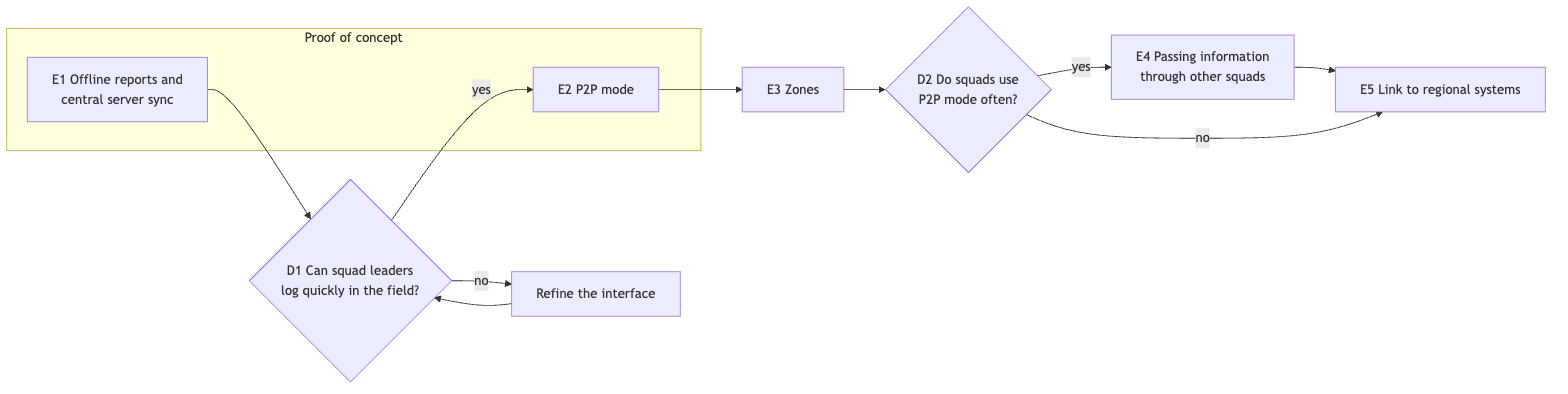
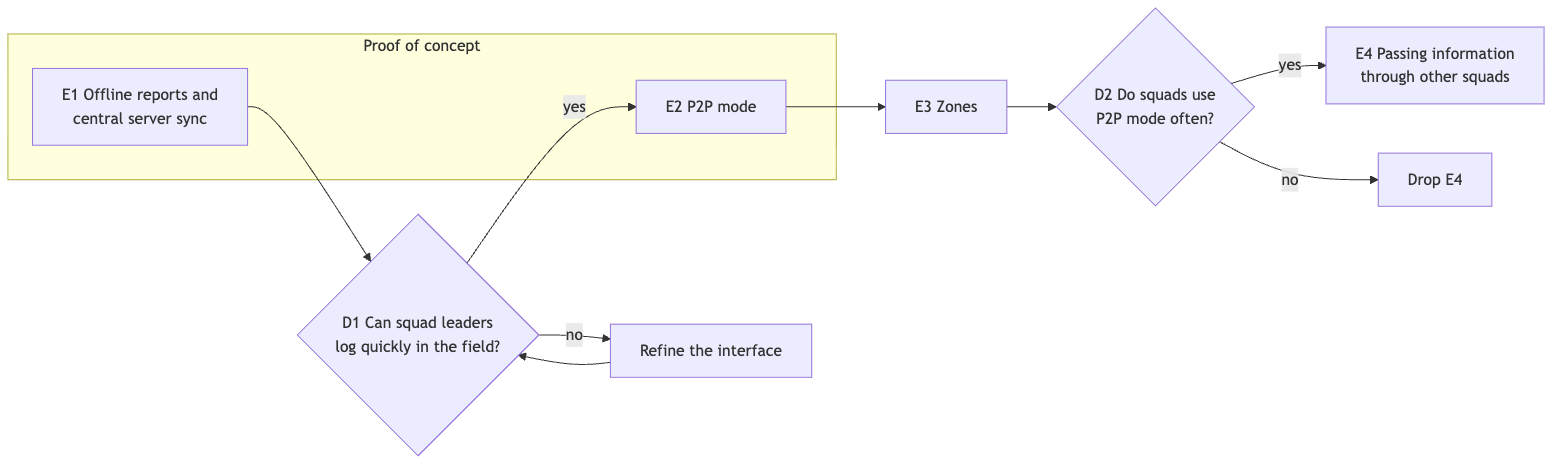
report(pa2): drop quality scenario, S5, S6 and E5 to fit word budget

diff --git a/report/pa2.md b/report/pa2.md
@@ -59,7 +59,7 @@ The system is for small and large incidents, and it does not replace voice radio
 
 ## 2.2 Key Scenarios
 
-Table 2.1 lists the scenarios at user-goal level [Cockburn], with the stakeholders from Section 1.3 that each one serves. We detail two of them below, and then one quality scenario.
+Table 2.1 lists the scenarios at user-goal level [Cockburn], with the stakeholders from Section 1.3 that each one serves. We detail two of them below.
 
 <!-- Actor and stakeholder names must match Section 1.3. -->
 
@@ -69,8 +69,6 @@ Table 2.1 lists the scenarios at user-goal level [Cockburn], with the stakeholde
 | S2 | Squad leader | Receive updates and assignments once connected | Squads, command staff |
 | S3 | Two squad leaders | Sync in P2P mode when their squads meet | Squads |
 | S4 | Two squad leaders | Settle conflicting reports about the same thing | Squads |
-| S5 | Division supervisor | Follow reports from a wider area than one squad | Division supervisors |
-| S6 | Command staff | See the combined picture and assign squads | Command staff |
 
 *Table 2.1: Scenario overview.*
 
@@ -85,16 +83,6 @@ Squads 3 and 7 meet during the shift. Neither squad has had a connection since t
 <!-- FIGURE 2.1: timeline of this scenario (two lanes: Squad 3, Squad 7).
 Export the Mermaid source to PNG so it does not count toward the word limit. -->
 
-### 2.2.3 Quality scenario: extended disconnection
-
-<!-- Numbers are proposals for the team to confirm; CA3 experiments measure them. -->
-
-| Field | Content |
-|---|---|
-| Situation | A squad has been out of contact for a full shift, then meets another squad. |
-| Response | Both tablets exchange all their entries. No entry is lost, and both leaders see all conflicts. |
-| Target | The tablets exchange 500 entries each in less than 60 seconds. |
-
 ## 2.3 Architecturally Significant Requirements
 
 A requirement is architecturally significant if it needs dedicated components, is expensive to change, or enables or blocks future functions [L05, slide 21].
@@ -102,11 +90,11 @@ A requirement is architecturally significant if it needs dedicated components, i
 | ID | Requirement | From | Why significant |
 |---|---|---|---|
 | R1 | Without a connection, a tablet can store new reports, update existing reports, and sync with another tablet in P2P mode. | S1, S3 | Each tablet keeps its own copy of the record. It is expensive to add this to an online design later. |
-| R2 | With a connection, a tablet syncs with the central server automatically. It sends its reports and receives the updates and assignments for its zones. | S2, S6 | A component must detect the connection and sync without user action. |
+| R2 | With a connection, a tablet syncs with the central server automatically. It sends its reports and receives the updates and assignments for its zones. | S2 | A component must detect the connection and sync without user action. |
 | R3 | After two peers sync, both hold the same record. The central server counts as a peer. | S2, S3 | All pairs of peers use one sync behaviour. This also makes relaying possible later (E4). |
 | R4 | No entry is lost. The users see conflicting reports, and the system never drops them. | S3, S4 | The stored data must show which changes were concurrent. This is expensive to change after deployment (ADR in Part II). |
 | R5 | Two tablets only sync when both squad leaders have switched on P2P mode. | S3 | Tablets must find and trust each other only on request. This prevents exchange in the background. |
-| R6 | The central server subscribes each tablet to the zones within a radius of its position, or to zones that the server assigns. The radius depends on the user's role. The server sends each tablet only the reports from its zones. Zones do not limit P2P mode. | S2, S5 | A server component must track positions and subscriptions. Traffic stays small, so the system works for small and large incidents. |
+| R6 | The central server subscribes each tablet to the zones within a radius of its position, or to zones that the server assigns. The radius depends on the user's role. The server sends each tablet only the reports from its zones. Zones do not limit P2P mode. | S2 | A server component must track positions and subscriptions. Traffic stays small, so the system works for small and large incidents. |
 <!-- Part II notes, not for PA2:
 - Zones are Uber's H3 hexagons; subscription = all hexagons intersecting a circle of radius x around the tablet (figure available). Name H3 in CA1 or an ADR.
 - ADR candidate: the server pushes updates to tablets over a persistent connection (e.g. WebSockets) instead of tablets long-polling every 30 s, because polling costs too much battery and hardware on the tablets. -->
@@ -143,7 +131,6 @@ The roadmap in Figure 2.2 puts epics in order over one to two years. An epic is 
 | E2 | P2P mode, a sync summary, and a view to settle conflicts | R1, R5 | Squads | P2P syncs per shift |
 | E3 | Reports from the zones around them | R6 | Division supervisors | Data sent per tablet |
 | E4 | Reports that other squads relay from their author | R3 | Squads | Time for a report to reach squads |
-| E5 | Links to regional systems | none | Command staff | To be defined |
 
 *Table 2.2: Epics.*
 
@@ -151,13 +138,12 @@ At D1, field trials check if squad leaders can log reports quickly with gloves o
 
 ## 2.6 Pricing and Sustainability
 
-Governments buy through their fire services, with yearly budgets and multi-year contracts. Of the pricing models in L05 (slide 23), a yearly subscription per fire service, priced per tablet, fits best. Comparable tools use the same model [Avenza], [Esri]. The alternative is the TAK model: the government pays for development, and responders get the software free [CivTAK].
+Governments buy through their fire services, with yearly budgets and multi-year contracts. Of the pricing models in L05 (slide 23), a yearly subscription per fire service, priced per tablet, fits best. Comparable tools use the same model [Avenza], [Esri].
 
 A subscription needs license management on the central server. A lapsed license must never stop a tablet in the field, so the server checks the license only when a tablet syncs with it. Squads get the reports of their neighbours, command staff get a combined picture, and fire services get a predictable cost. The disadvantage for crews is that their tablets show where they are, which Section 1.3 discusses.
 
 <!-- Sources (verified by the pricing research, 2026-09-19):
 [Avenza] https://store.avenza.com/pages/pricing (Pro $169.99/device/yr; enterprise volume pricing)
 [Esri] https://www.esri.com/en-us/arcgis/products/arcgis-field-maps/buy (bundled in user-type licenses)
-[CivTAK] https://www.civtak.org/atak-about/ ("developed at government expense")
 Also verified: Technosylva $383k California RFI2 contract, https://statescoop.com/california-wildfire-technology-contracts-fast-procurement/
 Full research: scratchpad pricing_research.md. Tablet Command contract amounts are UNVERIFIED, so don't cite them. -->
